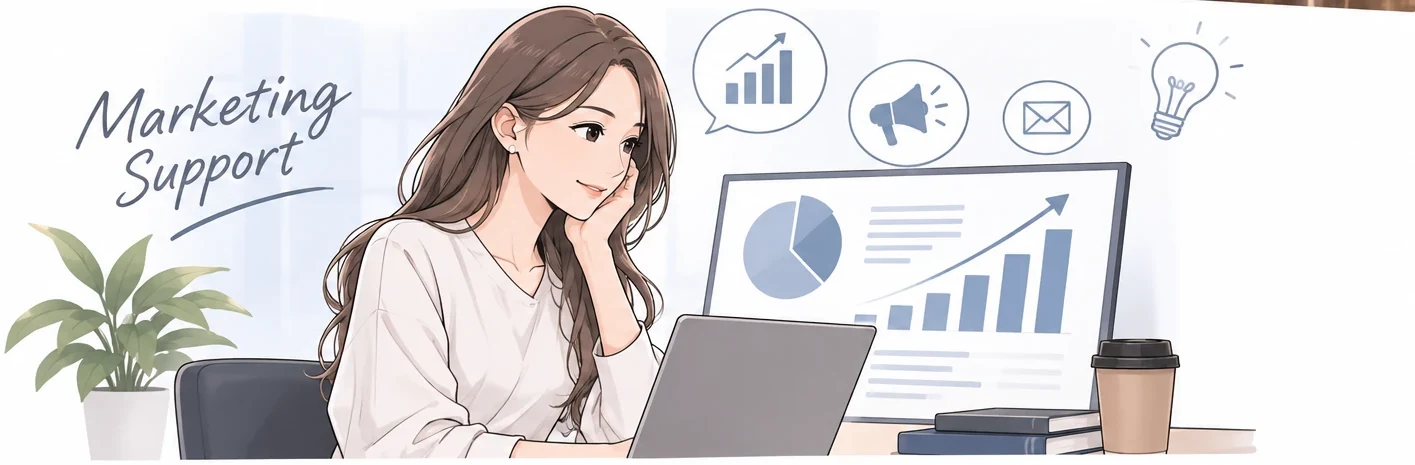
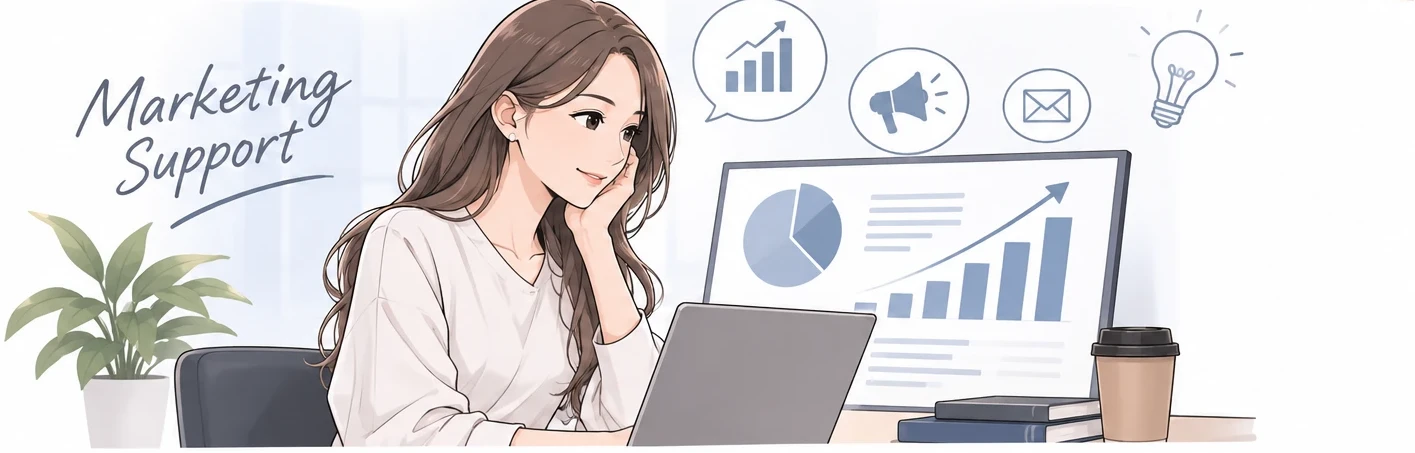
フルリモートの画面に受付の写真、代表挨拶の写真枠を文章枠と同じ高さに、事業内容のイラストの見え方を調整

diff --git a/business.html b/business.html
@@ -14,11 +14,11 @@
 <link rel="preconnect" href="https://fonts.gstatic.com" crossorigin>
 <!-- fonts: F6 「上質・落ち着き」 (client decision 2026-10-26) — headings Zen Old Mincho / body Zen Kaku Gothic New / Latin Cormorant Garamond -->
 <link href="https://fonts.googleapis.com/css2?family=Zen+Old+Mincho:wght@700;900&family=Zen+Kaku+Gothic+New:wght@400;500;700;900&family=Cormorant+Garamond:wght@600;700&display=swap" rel="stylesheet">
-<link rel="stylesheet" href="assets/css/site.css?v=83527603f0">
+<link rel="stylesheet" href="assets/css/site.css?v=a02eb4da73">
 <script src="https://cdnjs.cloudflare.com/ajax/libs/three.js/r128/three.min.js"></script>
 <script src="assets/js/fx.js?v=2"></script>
-<script src="assets/js/site.js?v=83527603f0"></script>
-<script src="assets/js/business.js?v=83527603f0" defer></script>
+<script src="assets/js/site.js?v=a02eb4da73"></script>
+<script src="assets/js/business.js?v=a02eb4da73" defer></script>
 </head>
 <body class="theme-dark page-business">
 <a class="skip" href="#deck">本文へ移動</a>
@@ -36,7 +36,7 @@
 <main class="deck" id="deck">
 <!-- ===== slide s-hero (business/hero.html) ===== -->
 <style>
-  /* business hero — text from top.html; arrival T1 is driven by assets/js/business.js?v=83527603f0 */
+  /* business hero — text from top.html; arrival T1 is driven by assets/js/business.js?v=a02eb4da73 */
   #s-hero{align-items:stretch}
   #s-hero .hero-scrim{position:absolute;inset:0;z-index:-1;pointer-events:none;opacity:0;transition:opacity .9s ease;
     background:radial-gradient(ellipse 62% 52% at 50% 50%,rgba(2,11,34,.58) 0%,rgba(2,11,34,.3) 55%,rgba(2,11,34,0) 100%)}
@@ -494,16 +494,20 @@
   #s-services .sv::before{content:"";position:absolute;z-index:3;left:22px;right:22px;top:0;height:3px;border-radius:0 0 3px 3px;
     background:linear-gradient(90deg,#1976f6,#4db3ff 55%,rgba(77,179,255,0));transform-origin:left center}
 
-  /* the scene: card background at the top, fading softly into the card body */
-  #s-services .sv-art{position:relative;z-index:0;flex:none;height:var(--art-h);overflow:hidden;pointer-events:none}
+  /* the scene: card background at the top, fading softly into the card body. The picture takes all the height the
+     text does not need (min --art-h): the tallest card (SERVICE 01) keeps the minimum, and in SERVICE 02/03 the scene
+     grows so their text block ends at the card bottom too (text is bottom-aligned in all three cards). */
+  #s-services .sv-art{position:relative;z-index:0;flex:1 0 var(--art-h);height:auto;min-height:var(--art-h);overflow:hidden;pointer-events:none}
   #s-services .sv-art img{position:absolute;inset:0;width:100%;height:100%;display:block;object-fit:cover;object-position:var(--pos,50% 30%);
     --fade:linear-gradient(180deg,#000 0%,#000 var(--f0,62%),rgba(0,0,0,.35) var(--f1,88%),transparent 100%);
     -webkit-mask-image:var(--fade);mask-image:var(--fade)}
   #s-services .sv-art.is{--pos:62% 26%}
-  #s-services .sv-art.bar{--pos:50% 14%;--f0:72%;--f1:92%}
-  #s-services .sv-art.mk{--pos:12% 40%}
-  /* the marketing crop has a thin dark smudge along its top-right edge: hide the top few px */
-  #s-services .sv-art.mk img{top:-9px;height:calc(100% + 9px)}
+  #s-services .sv-art.bar{--pos:62% 40%;--f0:72%;--f1:92%}
+  #s-services .sv-art.mk{--pos:8% 40%}
+  /* the marketing scene is very wide: when its card gives it a tall area, a full-height cover crop would show only a
+     slice (lettering or face cut). Cap the picture at a 620:453 window (lettering + the woman at her laptop) and let
+     its soft fade end where the title tab starts; on short/narrow areas it is a normal cover crop (max-height). */
+  #s-services .sv-art.mk img{bottom:auto;height:auto;aspect-ratio:620/453;max-height:100%}
 
   /* label + title on a white tab that rises into the picture */
   #s-services .sv-cap{position:relative;z-index:1;align-self:flex-start;max-width:calc(100% - 18px);margin-top:calc(-1 * var(--cap-ov));
@@ -512,7 +516,7 @@
   #s-services .sv .num{color:var(--sv-blue);margin-bottom:2px}
   #s-services .sv h3{font-size:clamp(17px,1.45vw,20px);margin:0;color:#0b2d6b}
 
-  #s-services .sv-body{position:relative;z-index:1;display:flex;flex-direction:column;flex:1 1 auto;padding:8px 22px 16px}
+  #s-services .sv-body{position:relative;z-index:1;display:flex;flex-direction:column;flex:0 0 auto;padding:8px 22px 16px}
   #s-services .sv .desc{font-size:13.5px;line-height:1.8;color:var(--sv-sub)}
   #s-services .sv ul{list-style:none;margin:10px 0 0;padding:10px 0 0;border-top:1px solid rgba(11,45,107,.14);display:grid;gap:5px}
   #s-services .sv li{position:relative;padding-left:22px;font-size:13.5px;line-height:1.6;font-weight:500;color:var(--sv-ink)}
@@ -546,6 +550,7 @@
     #s-services .sv.main{grid-column:1/-1}
     #s-services .sv.main{--art-h:clamp(170px,24vw,240px)}
     #s-services .sv-art.is{--pos:60% 24%}
+    #s-services .sv-art.bar{--pos:50% 14%} /* shorter picture here: keep the neon sign in view */
   }
   @media (max-width:640px){
     #s-services{--art-h:clamp(150px,48vw,210px);--cap-ov:44px}
@@ -642,7 +647,7 @@
       </article>
 
       <article class="card sv" data-rv style="--d:.48s">
-        <div class="sv-art mk" aria-hidden="true"><img src="assets/img/illust/svc-marketing.webp" alt="" width="1415" height="465" decoding="async"></div>
+        <div class="sv-art mk" aria-hidden="true"><img src="assets/img/illust/svc-marketing.webp" alt="" width="1415" height="453" decoding="async"></div>
         <div class="sv-cap">
           <span class="num">SERVICE 03</span>
           <h3>マーケティング支援</h3>
@@ -669,6 +674,10 @@
   #s-remote .en{display:block;font:600 clamp(11px,1vw,13px)/1.6 var(--font-en);letter-spacing:.18em;color:var(--sub)}
   #s-remote .body{font-size:clamp(15px,1.25vw,17px);line-height:1.95;color:var(--sub);margin:14px 0 0;max-width:34em}
   #s-remote .pts{margin-top:20px}
+
+  /* photo: the entrance page's reception photo, shown as a plain still (no motion, no light effects) */
+  #s-remote .rm-pic{position:relative;margin:0;width:100%;aspect-ratio:4/3;border-radius:var(--radius);overflow:hidden;box-shadow:var(--card-shadow);border:1px solid var(--card-line);background:#14306a}
+  #s-remote .rm-pic img{position:absolute;inset:0;width:100%;height:100%;object-fit:cover;object-position:40% 50%;display:block}
 
   /* headline pieces */
   #s-remote .copy .ln{display:block}
@@ -721,7 +730,8 @@
 
   @media (max-width:900px){
     #s-remote .rm-grid{grid-template-columns:minmax(0,1fr);gap:28px}
-    #s-remote .ph{aspect-ratio:16/9}
+    #s-remote .rm-pic{aspect-ratio:16/9}
+    #s-remote .rm-pic img{object-position:42% 50%}
   }
   @media (max-width:640px){
     #s-remote .copy{font-size:clamp(26px,7.4vw,32px)}
@@ -737,7 +747,7 @@
         <p class="body fol">1,500名を超える登録アポインターの中から、厳選された即戦力人材をご提供。最短即日で稼働開始が可能です。</p>
         <div class="pts fol"><span><b>INITIAL COST</b>初期費用 無料</span><span><b>START</b>最短稼働 即日〜</span><span><b>TRIAL</b>お試し期間 1ヶ月〜</span></div>
       </div>
-      <div class="ph" data-rv style="--d:.4s">写真入る<small>オフィスの雰囲気</small></div>
+      <figure class="rm-pic"><img src="assets/img/reception.jpg" alt="Insupの受付" width="2400" height="1174" decoding="async"></figure>
     </div>
   </div>
 </section>
@@ -866,12 +876,14 @@
 <!-- ===== slide s-ceo (shared/ceo.html) ===== -->
 <!-- shared: 代表挨拶 (business #8 / careers #8) — full text from the current about page, every line in order -->
 <style>
-  #s-ceo .ceo{display:grid;grid-template-columns:minmax(200px,250px) minmax(0,1fr);grid-template-areas:"fig head" "fig msg";column-gap:clamp(28px,4.4vw,64px);align-items:center;align-content:center}
+  /* desktop: the photo frame sits beside the message panel and is exactly as tall as it (top and bottom aligned);
+     the name plate lives inside the bottom of the frame so it never breaks that alignment */
+  #s-ceo .ceo{display:grid;grid-template-columns:clamp(230px,20vw,340px) minmax(0,1fr);grid-template-areas:". head" "fig msg";column-gap:clamp(28px,4vw,60px);align-items:stretch;align-content:center}
   #s-ceo .ceo-head{grid-area:head;align-self:end}
-  #s-ceo .ceo-msg{grid-area:msg;align-self:start}
-  #s-ceo .ceo-fig{grid-area:fig;margin:0}
-  #s-ceo .ceo-fig .ph{aspect-ratio:3/4}
-  #s-ceo .ceo-name{display:flex;align-items:baseline;gap:12px;margin-top:14px;padding-left:2px}
+  #s-ceo .ceo-msg{grid-area:msg}
+  #s-ceo .ceo-fig{grid-area:fig;margin:0;position:relative;display:flex;min-height:0}
+  #s-ceo .ceo-fig .ph{aspect-ratio:auto;height:100%;min-height:300px;padding-bottom:72px}
+  #s-ceo .ceo-name{position:absolute;left:2px;right:2px;bottom:2px;display:flex;align-items:baseline;justify-content:center;gap:12px;margin:0;padding:16px 12px 22px}
   #s-ceo .ceo-name span{font-size:13px;font-weight:700;color:var(--sub);letter-spacing:.12em}
   #s-ceo .ceo-name b{font-size:22px;font-weight:900;letter-spacing:.14em;color:var(--heading)}
   #s-ceo .s-title{font-size:clamp(26px,2.9vw,40px);margin-bottom:clamp(12px,2vh,20px)}
@@ -882,6 +894,8 @@
   /* wide screens: the message in two text columns so it fits on one screen */
   @media (min-width:1100px){
     #s-ceo .ceo-txt{columns:2;column-gap:clamp(32px,3.4vw,48px);column-rule:1px solid var(--line)}
+    /* the one long paragraph may continue in the next column, so both columns end at about the same height */
+    #s-ceo .ceo-txt p.split{break-inside:auto;orphans:2;widows:2}
   }
   @media (min-width:1100px) and (max-height:800px){
     #s-ceo .ceo-msg{font-size:14px;line-height:1.75}
@@ -897,15 +911,15 @@
       -webkit-mask-image:linear-gradient(180deg,#000 0,#000 calc(100% - 56px),transparent 100%);mask-image:linear-gradient(180deg,#000 0,#000 calc(100% - 56px),transparent 100%)}
   }
   @media (max-width:900px){
-    #s-ceo .ceo{grid-template-columns:minmax(0,1fr);grid-template-areas:"head" "fig" "msg";row-gap:0}
+    #s-ceo .ceo{grid-template-columns:minmax(0,1fr);grid-template-areas:"head" "fig" "msg";row-gap:0;align-items:start}
     #s-ceo .ceo-fig{display:grid;grid-template-columns:120px minmax(0,1fr);align-items:end;gap:16px;margin-bottom:22px}
-    #s-ceo .ceo-fig .ph{font-size:13px;border-radius:14px}
-    #s-ceo .ceo-name{margin:0 0 4px;flex-direction:column;gap:2px}
+    #s-ceo .ceo-fig .ph{aspect-ratio:3/4;height:auto;min-height:0;padding:12px;font-size:13px;border-radius:14px}
+    #s-ceo .ceo-name{position:static;margin:0 0 4px;padding:0 0 0 2px;flex-direction:column;align-items:flex-start;gap:2px}
     #s-ceo .ceo-msg{font-size:15px;line-height:1.95;padding:18px 18px}
   }
 </style>
 <section class="slide" id="s-ceo" data-title="代表挨拶">
-  <div class="s-inner">
+  <div class="s-inner wide">
     <div class="ceo">
       <figure class="ceo-fig" data-rv style="--d:.15s">
         <div class="ph">写真入る<small>代表写真</small></div>
@@ -920,7 +934,7 @@
           <p data-rv style="--d:.32s">でも、月日が経つにつれて<br>"嘘をつかないと契約が取れない"<br>そんな現実に嫌気がさして、<br>一度はこの業界を離れました。</p>
           <p data-rv style="--d:.39s">それでも、僕の地元・北海道には今も同じような環境で頑張っている営業マンがたくさんいます。</p>
           <p data-rv style="--d:.46s">だけど——<br>商材も手法も、10年前と何も変わっていない。</p>
-          <p data-rv style="--d:.53s">特に、子育て中のママや、冬場に街中まで通うのが大変な地方の営業職の方たち。<br>本当は優秀なのに、「環境のせいでチャンスを諦めている」人が多いんです。</p>
+          <p class="split" data-rv style="--d:.53s">特に、子育て中のママや、冬場に街中まで通うのが大変な地方の営業職の方たち。<br>本当は優秀なのに、「環境のせいでチャンスを諦めている」人が多いんです。</p>
           <p data-rv style="--d:.6s">だから僕は、もう一度この業界に戻ることを決めました。</p>
           <p data-rv style="--d:.67s">東京で扱われているSaaS商材を、北海道に<span class="nw">"輸入"</span>するような形で届けたい。</p>
           <p data-rv style="--d:.74s">フルリモートという新しい働き方を、経験のある人たちにもう一度手渡したい。</p>

diff --git a/careers.html b/careers.html
@@ -14,11 +14,11 @@
 <link rel="preconnect" href="https://fonts.gstatic.com" crossorigin>
 <!-- fonts: F3 「親しみ・力強い」 (client decision 2026-10-26) — LINE Seed JP for Japanese, Latin and numbers -->
 <link href="https://fonts.googleapis.com/css2?family=LINE+Seed+JP:wght@400;700;800&display=swap" rel="stylesheet">
-<link rel="stylesheet" href="assets/css/site.css?v=83527603f0">
+<link rel="stylesheet" href="assets/css/site.css?v=a02eb4da73">
 <script src="https://cdnjs.cloudflare.com/ajax/libs/three.js/r128/three.min.js"></script>
 <script src="assets/js/fx.js?v=2"></script>
-<script src="assets/js/site.js?v=83527603f0"></script>
-<script src="assets/js/careers.js?v=83527603f0" defer></script>
+<script src="assets/js/site.js?v=a02eb4da73"></script>
+<script src="assets/js/careers.js?v=a02eb4da73" defer></script>
 </head>
 <body class="theme-light page-careers">
 <a class="skip" href="#deck">本文へ移動</a>
@@ -710,12 +710,14 @@
 <!-- ===== slide s-ceo (shared/ceo.html) ===== -->
 <!-- shared: 代表挨拶 (business #8 / careers #8) — full text from the current about page, every line in order -->
 <style>
-  #s-ceo .ceo{display:grid;grid-template-columns:minmax(200px,250px) minmax(0,1fr);grid-template-areas:"fig head" "fig msg";column-gap:clamp(28px,4.4vw,64px);align-items:center;align-content:center}
+  /* desktop: the photo frame sits beside the message panel and is exactly as tall as it (top and bottom aligned);
+     the name plate lives inside the bottom of the frame so it never breaks that alignment */
+  #s-ceo .ceo{display:grid;grid-template-columns:clamp(230px,20vw,340px) minmax(0,1fr);grid-template-areas:". head" "fig msg";column-gap:clamp(28px,4vw,60px);align-items:stretch;align-content:center}
   #s-ceo .ceo-head{grid-area:head;align-self:end}
-  #s-ceo .ceo-msg{grid-area:msg;align-self:start}
-  #s-ceo .ceo-fig{grid-area:fig;margin:0}
-  #s-ceo .ceo-fig .ph{aspect-ratio:3/4}
-  #s-ceo .ceo-name{display:flex;align-items:baseline;gap:12px;margin-top:14px;padding-left:2px}
+  #s-ceo .ceo-msg{grid-area:msg}
+  #s-ceo .ceo-fig{grid-area:fig;margin:0;position:relative;display:flex;min-height:0}
+  #s-ceo .ceo-fig .ph{aspect-ratio:auto;height:100%;min-height:300px;padding-bottom:72px}
+  #s-ceo .ceo-name{position:absolute;left:2px;right:2px;bottom:2px;display:flex;align-items:baseline;justify-content:center;gap:12px;margin:0;padding:16px 12px 22px}
   #s-ceo .ceo-name span{font-size:13px;font-weight:700;color:var(--sub);letter-spacing:.12em}
   #s-ceo .ceo-name b{font-size:22px;font-weight:900;letter-spacing:.14em;color:var(--heading)}
   #s-ceo .s-title{font-size:clamp(26px,2.9vw,40px);margin-bottom:clamp(12px,2vh,20px)}
@@ -726,6 +728,8 @@
   /* wide screens: the message in two text columns so it fits on one screen */
   @media (min-width:1100px){
     #s-ceo .ceo-txt{columns:2;column-gap:clamp(32px,3.4vw,48px);column-rule:1px solid var(--line)}
+    /* the one long paragraph may continue in the next column, so both columns end at about the same height */
+    #s-ceo .ceo-txt p.split{break-inside:auto;orphans:2;widows:2}
   }
   @media (min-width:1100px) and (max-height:800px){
     #s-ceo .ceo-msg{font-size:14px;line-height:1.75}
@@ -741,15 +745,15 @@
       -webkit-mask-image:linear-gradient(180deg,#000 0,#000 calc(100% - 56px),transparent 100%);mask-image:linear-gradient(180deg,#000 0,#000 calc(100% - 56px),transparent 100%)}
   }
   @media (max-width:900px){
-    #s-ceo .ceo{grid-template-columns:minmax(0,1fr);grid-template-areas:"head" "fig" "msg";row-gap:0}
+    #s-ceo .ceo{grid-template-columns:minmax(0,1fr);grid-template-areas:"head" "fig" "msg";row-gap:0;align-items:start}
     #s-ceo .ceo-fig{display:grid;grid-template-columns:120px minmax(0,1fr);align-items:end;gap:16px;margin-bottom:22px}
-    #s-ceo .ceo-fig .ph{font-size:13px;border-radius:14px}
-    #s-ceo .ceo-name{margin:0 0 4px;flex-direction:column;gap:2px}
+    #s-ceo .ceo-fig .ph{aspect-ratio:3/4;height:auto;min-height:0;padding:12px;font-size:13px;border-radius:14px}
+    #s-ceo .ceo-name{position:static;margin:0 0 4px;padding:0 0 0 2px;flex-direction:column;align-items:flex-start;gap:2px}
     #s-ceo .ceo-msg{font-size:15px;line-height:1.95;padding:18px 18px}
   }
 </style>
 <section class="slide" id="s-ceo" data-title="代表挨拶">
-  <div class="s-inner">
+  <div class="s-inner wide">
     <div class="ceo">
       <figure class="ceo-fig" data-rv style="--d:.15s">
         <div class="ph">写真入る<small>代表写真</small></div>
@@ -764,7 +768,7 @@
           <p data-rv style="--d:.32s">でも、月日が経つにつれて<br>"嘘をつかないと契約が取れない"<br>そんな現実に嫌気がさして、<br>一度はこの業界を離れました。</p>
           <p data-rv style="--d:.39s">それでも、僕の地元・北海道には今も同じような環境で頑張っている営業マンがたくさんいます。</p>
           <p data-rv style="--d:.46s">だけど——<br>商材も手法も、10年前と何も変わっていない。</p>
-          <p data-rv style="--d:.53s">特に、子育て中のママや、冬場に街中まで通うのが大変な地方の営業職の方たち。<br>本当は優秀なのに、「環境のせいでチャンスを諦めている」人が多いんです。</p>
+          <p class="split" data-rv style="--d:.53s">特に、子育て中のママや、冬場に街中まで通うのが大変な地方の営業職の方たち。<br>本当は優秀なのに、「環境のせいでチャンスを諦めている」人が多いんです。</p>
           <p data-rv style="--d:.6s">だから僕は、もう一度この業界に戻ることを決めました。</p>
           <p data-rv style="--d:.67s">東京で扱われているSaaS商材を、北海道に<span class="nw">"輸入"</span>するような形で届けたい。</p>
           <p data-rv style="--d:.74s">フルリモートという新しい働き方を、経験のある人たちにもう一度手渡したい。</p>

diff --git a/index.html b/index.html
@@ -20,7 +20,7 @@
 <style>
   /* ===== 入口ページ — E4「ガラスのきらめき」 (ported from v5parts/ent.html, E4 only) ===== */
   :root{--navy:#0b2d6b;--blue:#1976f6;--sky:#4db3ff;--pale:#ebf4ff;--deep:#06183d;--ice:#75f2ff;--ink:#0b1d40;
-    /* fonts — F6 「上質・落ち着き」, same three variables as assets/css/site.css?v=83527603f0 (keep in sync) */
+    /* fonts — F6 「上質・落ち着き」, same three variables as assets/css/site.css?v=a02eb4da73 (keep in sync) */
     --font-ja:"Zen Kaku Gothic New",system-ui,-apple-system,"Hiragino Sans","Yu Gothic UI",sans-serif;
     --font-en:"Cormorant Garamond","Zen Kaku Gothic New",system-ui,-apple-system,"Hiragino Sans","Yu Gothic UI",sans-serif;
     --font-head:"Zen Old Mincho","Hiragino Mincho ProN","Yu Mincho",serif}

diff --git a/privacy.html b/privacy.html
@@ -14,7 +14,7 @@
 <link rel="preconnect" href="https://fonts.gstatic.com" crossorigin>
 <!-- fonts: F6 「上質・落ち着き」 (client decision 2026-10-26) — headings Zen Old Mincho / body Zen Kaku Gothic New / Latin Cormorant Garamond -->
 <link href="https://fonts.googleapis.com/css2?family=Zen+Old+Mincho:wght@700;900&family=Zen+Kaku+Gothic+New:wght@400;700&family=Cormorant+Garamond:wght@600;700&display=swap" rel="stylesheet">
-<link rel="stylesheet" href="assets/css/site.css?v=83527603f0">
+<link rel="stylesheet" href="assets/css/site.css?v=a02eb4da73">
 <style>
   /* privacy.html — a normal scrolling page (not slides), light theme D3 */
   .pp-hd{position:sticky;top:0;z-index:20;display:flex;align-items:center;justify-content:space-between;gap:12px;min-height:var(--hd-h);
